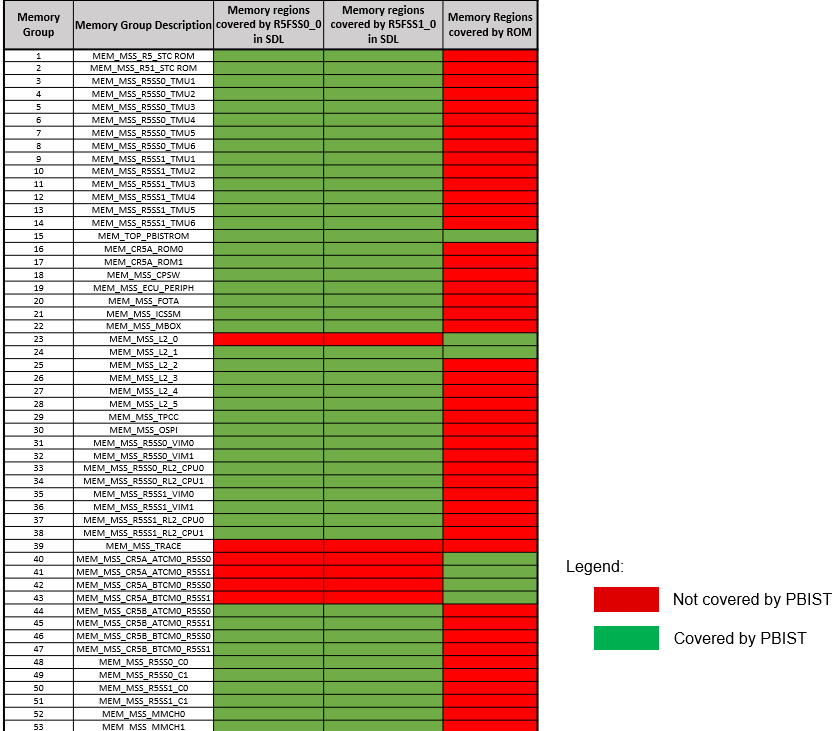
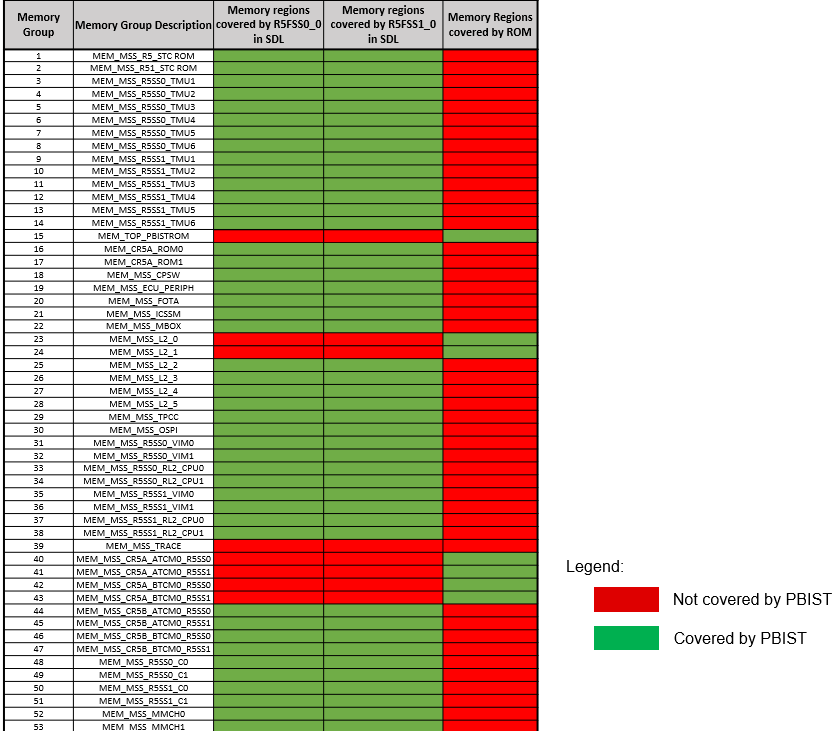
am263px: sdl/pbist: remove redundant mem_grp
- MSS_L2_1 and PBISTROM are tested in ROM. So, there are redundant test
   in SDL and removed.
 - Updated in documentation images

Fixes: PROC_SDL-9795

Changed region(s): [[0.2479, 0.4514, 0.5268, 0.5116], [0.2479, 0.301, 0.5268, 0.3311]]

diff --git a/source/sdl/pbist/v0/soc/am263px/sdl_pbist_soc.c b/source/sdl/pbist/v0/soc/am263px/sdl_pbist_soc.c
@@ -194,14 +194,6 @@ static SDL_pbistInstInfo SDL_PBIST_InstInfoArray[1] =
                 .override           = 0x0u,
                 /* Override bit set to 0 to use memoryGroupsBitMap & algorithmsBitMap */
                 /* NOTE: As the MCU R5f is running this code override bit cannot be set to enable all memory test */
-                .algorithmsBitMap   = 4u,
-                .memoryGroupsBitMap = 14u,  /* Choose PBISTROM */
-                .scrambleValue      = 0xFEDCBA9876543210U,  /* Scramble Value */
-            },
-            {
-                .override           = 0x0u,
-                /* Override bit set to 0 to use memoryGroupsBitMap & algorithmsBitMap */
-                /* NOTE: As the MCU R5f is running this code override bit cannot be set to enable all memory test */
                 .algorithmsBitMap   = 5u,
                 .memoryGroupsBitMap = 15u,  /* Choose ROM0 */
                 .scrambleValue      = 0xFEDCBA9876543210U,  /* Scramble Value */
@@ -252,14 +244,6 @@ static SDL_pbistInstInfo SDL_PBIST_InstInfoArray[1] =
                 /* NOTE: As the MCU R5f is running this code override bit cannot be set to enable all memory test */
                 .algorithmsBitMap   = 7u,
                 .memoryGroupsBitMap = 21u,  /* Choose MBOX */
-                .scrambleValue      = 0xFEDCBA9876543210U,  /* Scramble Value */
-            },
-            {
-                .override           = 0x0u,
-                /* Override bit set to 0 to use memoryGroupsBitMap & algorithmsBitMap */
-                /* NOTE: As the MCU R5f is running this code override bit cannot be set to enable all memory test */
-                .algorithmsBitMap   = 7u,
-                .memoryGroupsBitMap = 23u,  /* Choose MSS_L2_1 */
                 .scrambleValue      = 0xFEDCBA9876543210U,  /* Scramble Value */
             },
             {
@@ -576,14 +560,6 @@ static SDL_pbistInstInfo SDL_PBIST_InstInfoArray[1] =
                 .override           = 0x0u,
                 /* Override bit set to 0 to use memoryGroupsBitMap & algorithmsBitMap */
                 /* NOTE: As the MCU R5f is running this code override bit cannot be set to enable all memory test */
-                .algorithmsBitMap   = 4u,
-                .memoryGroupsBitMap = 14u,  /* Choose PBISTROM */
-                .scrambleValue      = 0xFEDCBA9876543210U,  /* Scramble Value */
-            },
-            {
-                .override           = 0x0u,
-                /* Override bit set to 0 to use memoryGroupsBitMap & algorithmsBitMap */
-                /* NOTE: As the MCU R5f is running this code override bit cannot be set to enable all memory test */
                 .algorithmsBitMap   = 5u,
                 .memoryGroupsBitMap = 15u,  /* Choose ROM0 */
                 .scrambleValue      = 0xFEDCBA9876543210U,  /* Scramble Value */
@@ -634,14 +610,6 @@ static SDL_pbistInstInfo SDL_PBIST_InstInfoArray[1] =
                 /* NOTE: As the MCU R5f is running this code override bit cannot be set to enable all memory test */
                 .algorithmsBitMap   = 7u,
                 .memoryGroupsBitMap = 21u,  /* Choose MBOX */
-                .scrambleValue      = 0xFEDCBA9876543210U,  /* Scramble Value */
-            },
-            {
-                .override           = 0x0u,
-                /* Override bit set to 0 to use memoryGroupsBitMap & algorithmsBitMap */
-                /* NOTE: As the MCU R5f is running this code override bit cannot be set to enable all memory test */
-                .algorithmsBitMap   = 7u,
-                .memoryGroupsBitMap = 23u,  /* Choose MSS_L2_1 */
                 .scrambleValue      = 0xFEDCBA9876543210U,  /* Scramble Value */
             },
             {

diff --git a/test/sdl/pbist/ip_pbist_test/pbist_test_func.c b/test/sdl/pbist/ip_pbist_test/pbist_test_func.c
@@ -1093,7 +1093,6 @@ int32_t PBIST_runTest(uint32_t instanceId, bool runNegTest)
             DebugP_log(" PBIST complete for R51 TMU4\r\n");
             DebugP_log(" PBIST complete for R51 TMU5\r\n");
             DebugP_log(" PBIST complete for R51 TMU6\r\n");
-            DebugP_log(" PBIST complete for PBISTROM\r\n");
             DebugP_log(" PBIST complete for ROM0\r\n");
             DebugP_log(" PBIST complete for ROM1\r\n");
             DebugP_log(" PBIST complete for CPSW\r\n");
@@ -1101,7 +1100,6 @@ int32_t PBIST_runTest(uint32_t instanceId, bool runNegTest)
             DebugP_log(" PBIST complete for FOTA\r\n");
             DebugP_log(" PBIST complete for ICSSM\r\n");
             DebugP_log(" PBIST complete for MBOX\r\n");
-            DebugP_log(" PBIST complete for MSS_L2_1\r\n");
             DebugP_log(" PBIST complete for MSS_L2_2\r\n");
             DebugP_log(" PBIST complete for MSS_L2_3\r\n");
             DebugP_log(" PBIST complete for MSS_L2_4\r\n");

diff --git a/test/sdl/pbist/sdl_pbist_test/pbist_test_func.c b/test/sdl/pbist/sdl_pbist_test/pbist_test_func.c
@@ -1108,7 +1108,6 @@ int32_t PBIST_runTest(uint32_t instanceId, bool runNegTest)
             DebugP_log(" PBIST complete for R51 TMU4\r\n");
             DebugP_log(" PBIST complete for R51 TMU5\r\n");
             DebugP_log(" PBIST complete for R51 TMU6\r\n");
-            DebugP_log(" PBIST complete for PBISTROM\r\n");
             DebugP_log(" PBIST complete for ROM0\r\n");
             DebugP_log(" PBIST complete for ROM1\r\n");
             DebugP_log(" PBIST complete for CPSW\r\n");
@@ -1116,7 +1115,6 @@ int32_t PBIST_runTest(uint32_t instanceId, bool runNegTest)
             DebugP_log(" PBIST complete for FOTA\r\n");
             DebugP_log(" PBIST complete for ICSSM\r\n");
             DebugP_log(" PBIST complete for MBOX\r\n");
-            DebugP_log(" PBIST complete for MSS_L2_1\r\n");
             DebugP_log(" PBIST complete for MSS_L2_2\r\n");
             DebugP_log(" PBIST complete for MSS_L2_3\r\n");
             DebugP_log(" PBIST complete for MSS_L2_4\r\n");

diff --git a/examples/sdl/pbist/pbist_mcu/pbist.c b/examples/sdl/pbist/pbist_mcu/pbist.c
@@ -489,7 +489,6 @@ int32_t PBIST_runTest(uint32_t instanceId, bool runNegTest)
             DebugP_log(" PBIST complete for R51 TMU4\r\n");
             DebugP_log(" PBIST complete for R51 TMU5\r\n");
             DebugP_log(" PBIST complete for R51 TMU6\r\n");
-            DebugP_log(" PBIST complete for PBISTROM\r\n");
             DebugP_log(" PBIST complete for ROM0\r\n");
             DebugP_log(" PBIST complete for ROM1\r\n");
             DebugP_log(" PBIST complete for CPSW\r\n");
@@ -497,7 +496,6 @@ int32_t PBIST_runTest(uint32_t instanceId, bool runNegTest)
             DebugP_log(" PBIST complete for FOTA\r\n");
             DebugP_log(" PBIST complete for ICSSM\r\n");
             DebugP_log(" PBIST complete for MBOX\r\n");
-            DebugP_log(" PBIST complete for MSS_L2_1\r\n");
             DebugP_log(" PBIST complete for MSS_L2_2\r\n");
             DebugP_log(" PBIST complete for MSS_L2_3\r\n");
             DebugP_log(" PBIST complete for MSS_L2_4\r\n");

diff --git a/source/sdl/pbist/v0/soc/am263px/sdl_ip_pbist.h b/source/sdl/pbist/v0/soc/am263px/sdl_ip_pbist.h
@@ -61,7 +61,7 @@ extern "C" {
 #include <stdbool.h>
 #include <sdl/pbist/v0/sdlr_pbist.h>
 #include <sdl/pbist/v0/soc/sdl_soc_pbist.h>
-#define PBIST_MAX_NUM_RUNS    47U
+#define PBIST_MAX_NUM_RUNS    45U
 /** ---------------------------------------------------------------------------
  * @brief   This structure contains the different configuration used for PBIST
  *
